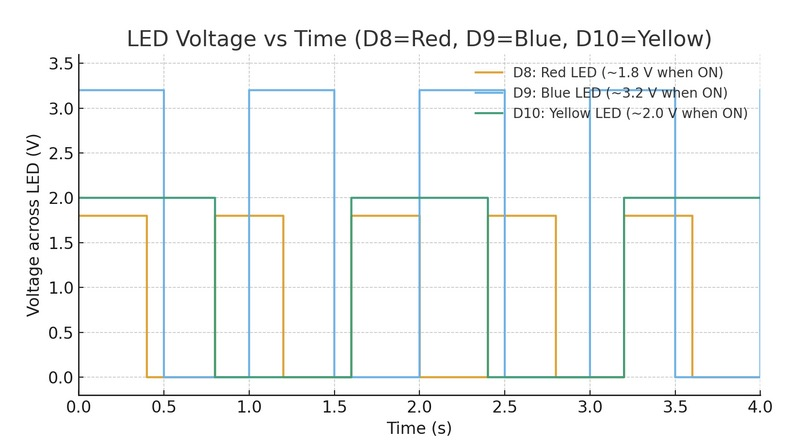
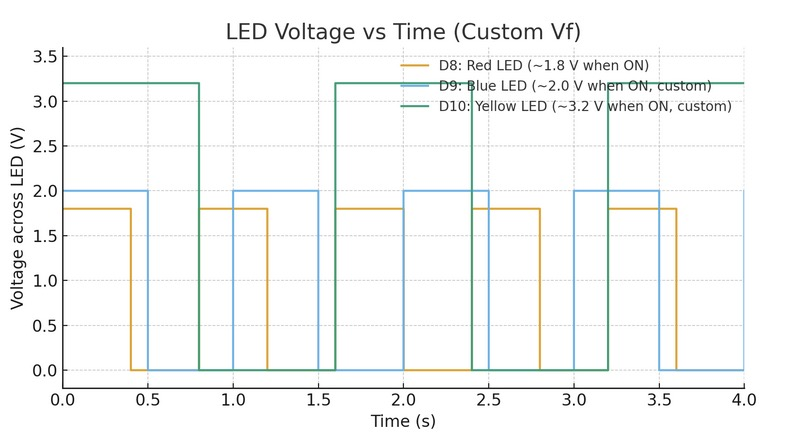
commit

diff --git a/a1.html b/a1.html
@@ -22,15 +22,15 @@
 
       <p>
         <strong>Wiring:</strong> each channel is <code>digital pin → resistor → LED anode (+)</code>; the LED cathode (–) goes to GND (shared ground rail).
-        <br /><strong>Resistors (for ~8–10 mA per LED):</strong> Red = <b>330 Ω</b>, Blue = <b>220 Ω</b>, Yellow = <b>330 Ω</b>.
+        <br /><strong>Resistors (for ~8–10 mA per LED):</strong> Red = <b>330 Ω</b>, Blue = <b>330 Ω</b>, Yellow = <b>220 Ω</b>.
       </p>
 
       <p>
         <strong>Math (5 V board, target 10 mA):</strong>
         Use <code>R = (V<sub>ARD</sub> − V<sub>F</sub>) / I</code>, with <code>V<sub>ARD</sub>=5 V</code>.
         <br />Red (V<sub>F</sub>≈1.8 V): <code>(5−1.8)/0.01 ≈ 320 Ω → 330 Ω</code>
-        <br />Blue (V<sub>F</sub>≈3.2 V): <code>(5−3.2)/0.01 ≈ 180 Ω → 220 Ω</code>
-        <br />Yellow (V<sub>F</sub>≈2.0 V): <code>(5−2.0)/0.01 ≈ 300 Ω → 330 Ω</code>
+        <br />Blue (V<sub>F</sub>≈2.0 V): <code>(5−2.0)/0.01 ≈ 300 Ω → 330 Ω</code>
+        <br />Yellow (V<sub>F</sub>≈3.2 V): <code>(5−3.2)/0.01 ≈ 180 Ω → 220 Ω</code>
       </p>
 
     </div>
@@ -62,7 +62,7 @@
 
       <div class="Additional questions 1">
         <a href="a1.html">
-          <h2>Assignment 2: Fade!</h2>
+          <h2>graph!</h2>
           <img src="graph_time:V.jpg" />
         </a>
         <p>X axis is time and the Y axis is voltage</p>
@@ -71,6 +71,58 @@
 
     
     <hr />
+
+    <section id="firmware">
+      <h2>Firmware (.ino)</h2>
+      <pre><code class="language-cpp">
+      // C++ code
+      //
+      int redPin = 8;
+      int bluePin = 9;
+      int yellowPin = 10;
+
+      void setup() {
+        pinMode(redPin, OUTPUT);
+        pinMode(bluePin, OUTPUT);
+        pinMode(yellowPin, OUTPUT);
+      }
+
+      void loop() {
+        digitalWrite(yellowPin, HIGH); // turn on Yellow
+        delay(100);
+        digitalWrite(yellowPin, LOW);  // turn off Yellow
+        delay(100);
+
+        digitalWrite(yellowPin, HIGH); // turn on Yellow
+        delay(100);
+        digitalWrite(yellowPin, LOW);  // turn off Yellow
+        delay(300);
+
+        digitalWrite(redPin, HIGH);   // turn on Red
+        delay(100);
+        digitalWrite(redPin, LOW);    // turn off Red
+        delay(100);
+
+        digitalWrite(redPin, HIGH);   // turn on Red
+        delay(100);
+        digitalWrite(redPin, LOW);    // turn off Red
+        delay(300);
+
+        digitalWrite(bluePin, HIGH);  // turn on Blue
+        delay(100);
+        digitalWrite(bluePin, LOW);   // turn off Blue
+        delay(100);
+
+        digitalWrite(bluePin, HIGH);  // turn on Blue
+        delay(100);
+        digitalWrite(bluePin, LOW);   // turn off Blue
+        delay(300);
+
+      }
+      </code></pre>
+    </section>
+
+
 
     <section style="max-width:900px;margin:0 auto">
       <h2>Additional Questions</h2>
@@ -83,13 +135,6 @@
         On an Arduino UNO you can practically control about <b>18 LEDs</b> independently (avoid D0/D1 used by Serial).  
         At ~8–10 mA per LED that’s roughly <b>144–180 mA</b> total.  
         Stay comfortably below the ATmega328P limits (≈20 mA per pin and ≲200 mA total); aiming ≤150 mA total is a good safety margin.
-      </p>
-
-      <h3>Q3. If only one is ON at any time?</h3>
-      <p>
-        With <em>charlieplexing</em>, <code>N</code> pins can address <code>N × (N − 1)</code> LEDs (one lit at a time).  
-        Using ~18 usable pins → up to <b>306 LEDs</b> (with proper wiring and current limiting).  
-        If you wire one pin per LED without charlieplexing, it remains ≈ <b>18</b>.
       </p>
 
       <h3>Q4. How fast until you can’t tell they’re blinking?</h3>
